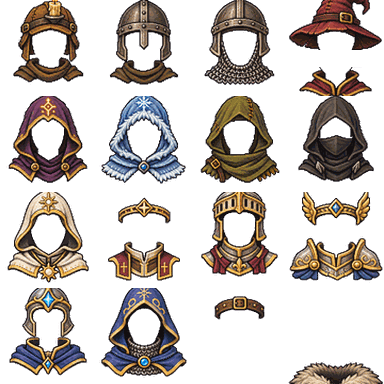
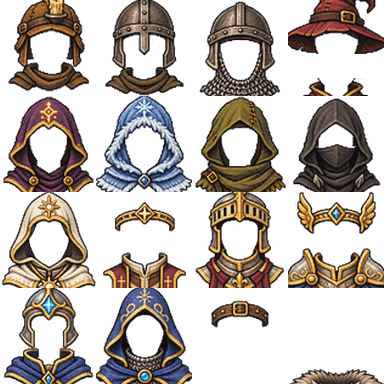
M8.10: headgear bigger and lower, shoulder pieces on the shoulders
Claude-Session: https://claude.ai/code/session_01AEHRuyPSDQGVtbtBJLwWks

diff --git a/scripts/cut-faces.py b/scripts/cut-faces.py
@@ -40,8 +40,9 @@ FIT = {
     "beards": (1.0, 0, 8),
     "extras": (1.0, 0, 0),
     "injuries": (1.0, 0, 0),
-    # Headgear a touch bigger than the head, so hoods and helms close round it (M8.10).
-    "hats": (1.06, 0, -7),
+    # Headgear bigger than the head and lower, so hoods and helms close round
+    # it and their shoulder pieces reach the shoulders (Mike, M8.10).
+    "hats": (1.22, 0, 3),
 }
 # Single parts that need their own fit, by layer and cell.
 OWN = {
@@ -52,12 +53,12 @@ OWN = {
     ("beards", 7): (1.0, 0, 12),  # mutton chops
     ("injuries", 0): (1.0, 0, -10),  # the head bandage goes round the brow
     ("injuries", 4): (1.0, 0, 24),  # the sling sits on the shoulder
-    ("hats", 0): (1.06, 0, -13),  # miner's cap
-    ("hats", 1): (1.06, 0, -11),  # nasal helm
-    ("hats", 2): (1.06, 0, -10),  # helmet and coif
-    ("hats", 10): (1.06, 0, -10),  # paladin's great helm
-    ("hats", 12): (1.06, 0, -9),  # spellblade's half-helm
-    ("hats", 15): (1.1, 0, 24),  # fur collar
+    ("hats", 0): (1.22, 0, -11),  # miner's cap
+    ("hats", 1): (1.22, 0, -7),  # nasal helm
+    ("hats", 2): (1.22, 0, 0),  # helmet and coif
+    ("hats", 10): (1.22, 0, 0),  # paladin's great helm
+    ("hats", 12): (1.22, 0, 1),  # spellblade's half-helm
+    ("hats", 15): (1.22, 0, 30),  # fur collar
 }
 
 # Parts drawn as two pieces with a gap between, each fitted on its own: the
@@ -65,7 +66,7 @@ OWN = {
 SPLIT = {
     # The wizard hat and its collar: the hat sits on the head, the collar on
     # the shoulders (Mike, M8.10).
-    ("hats", 3): (64, (1.06, 0, -15), (1.06, 0, 2)),
+    ("hats", 3): (64, (1.22, 0, -13), (1.22, 0, 11)),
 }
 
 

diff --git a/docs/DESIGN.md b/docs/DESIGN.md
@@ -1332,7 +1332,7 @@ A small icon set (`src/ui/art/icons/`) used everywhere names are: classes (roste
 - **Built in M8.06.** Mike drew the parts (DPBG-0018 to 0024: heads, hair, beards, scars and marks, injuries, two sheets of class headgear); `scripts/cut-faces.py` cuts them into 96px cells and lines each layer up on the head. `src/ui/art/Portrait.tsx` picks every layer by hashing the hero's id and birth name (a risen hero keeps their face, gone pale). Hair and beard share one of five colours, drawn as CSS filters over the brown the parts are painted in. Classes name their headgear cells (`hats` on `ClassDef`, checked by `validateLibrary`); porters wear the porter's cap; a hero with an injury shows one. Shown on roster cards, the memorial and hero fight tokens.
 - **M8.08: frames and more places.** The portrait frame takes the colour of the hero's alignment (`frame` on each alignment's content, checked by `validateLibrary`: Good gold, Neutral stone, Evil blood red). Portraits now also stand by each hero in the party panel's front and back rows, and across the top of the debrief (the fallen greyed and crossed, the hurt marked).
 - **M8.09: after Mike's first look.** Faces: the parts were drawn at the heads' scale, so they are no longer shrunk, only nudged (`FIT` in `scripts/cut-faces.py`); beards sit on the jaw, not under the eyes. Town map: the ground has grass, tufts, stones, flowers and woods outside the palisade, scattered from a fixed seed (`src/ui/town/map/ground.tsx`), and worn paths from the pit to each standing building. Fights: a move that strikes a whole group (Fireball, Cleave) draws a line and a ring to everyone it hit (`blows` from `stateAt`). The pit side on is a quarter shorter, one line of words per floor.
-- **M8.10: headgear fits.** Hoods, helms and hats are drawn a touch bigger than the head so they close round it, and hair is left off under them (`HIDES_HAIR` in `Portrait.tsx`): it poked out round the edges. Circlets, the porter's headband and the fur collar keep the hair. The wizard hat's collar is cut apart from the hat and sits on the shoulders (`SPLIT`), and the fuller beards (2, 3, braids, mutton chops) sit lower.
+- **M8.10: headgear fits.** Hoods, helms and hats are drawn bigger than the head (1.22x) and lower, so they close round it and their shoulder pieces reach the shoulders, and hair is left off under them (`HIDES_HAIR` in `Portrait.tsx`): it poked out round the edges. Circlets, the porter's headband and the fur collar keep the hair. The wizard hat's collar is cut apart from the hat and sits on the shoulders (`SPLIT`), and the fuller beards (2, 3, braids, mutton chops) sit lower.
 
 ### 6. Later, if wanted
 
